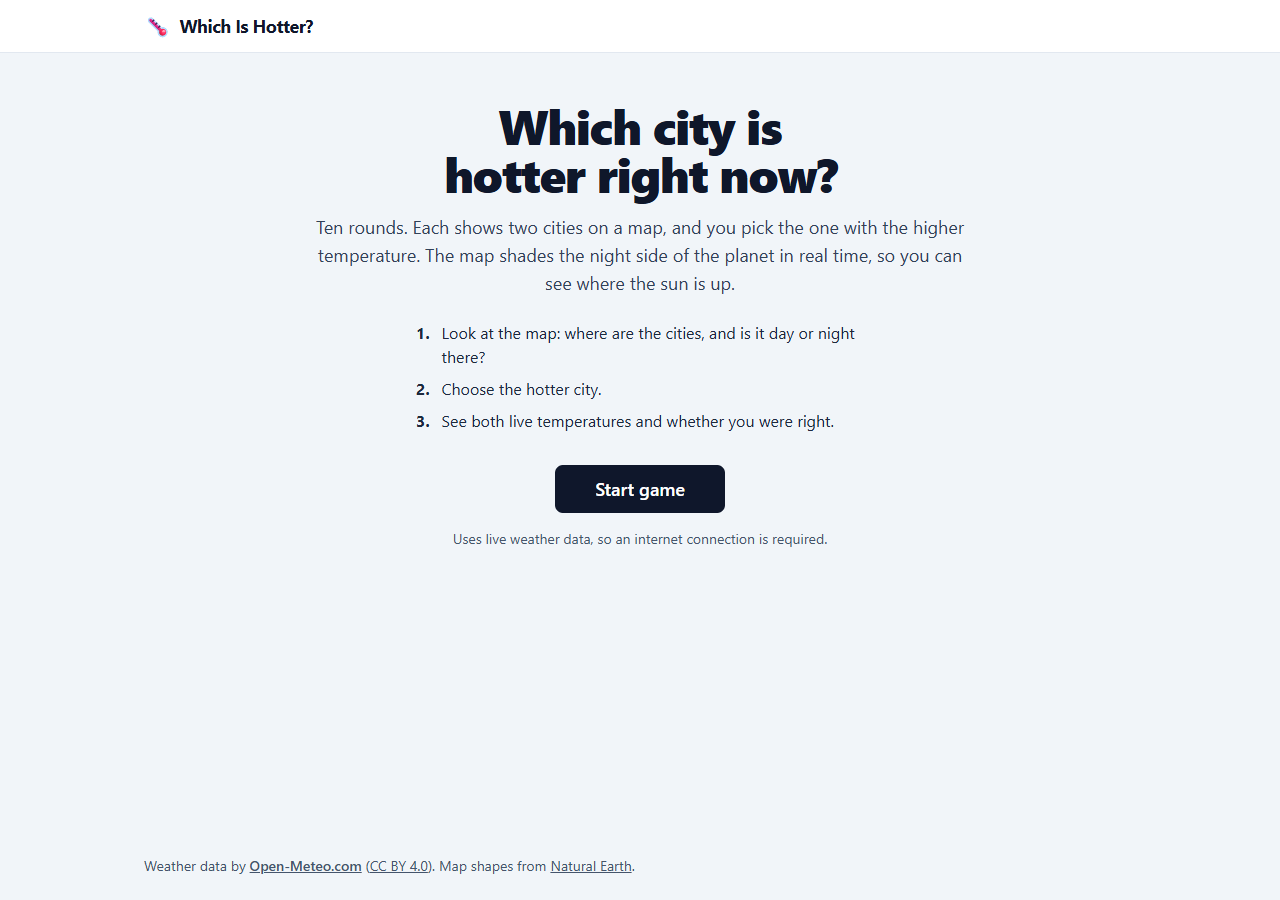
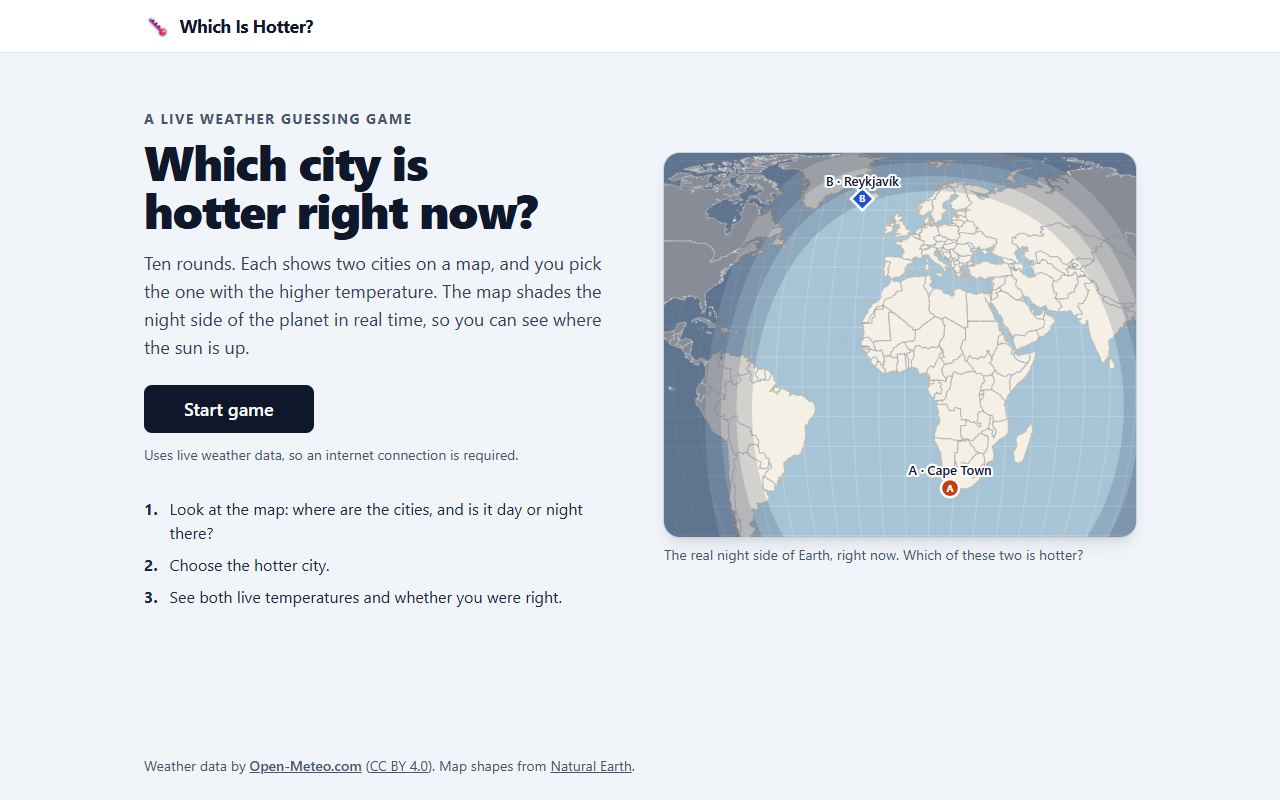
Add hero section with live night-side map to the home screen

diff --git a/src/views/HomeView.tsx b/src/views/HomeView.tsx
@@ -1,33 +1,43 @@
 import { Button } from '../components/Button'
+import { HeroMap } from './HeroMap'
+
+const STEPS = [
+  'Look at the map: where are the cities, and is it day or night there?',
+  'Choose the hotter city.',
+  'See both live temperatures and whether you were right.',
+]
 
 export function HomeView({ onStart }: { onStart: () => void }) {
   return (
-    <div className="mx-auto max-w-2xl py-6 text-center">
-      <h1 className="text-4xl font-extrabold tracking-tight text-balance sm:text-5xl">Which city is hotter right now?</h1>
-      <p className="mt-4 text-lg text-slate-700">
-        Ten rounds. Each shows two cities on a map, and you pick the one with the higher temperature. The map
-        shades the night side of the planet in real time, so you can see where the sun is up.
-      </p>
+    <div className="grid items-center gap-8 py-2 lg:grid-cols-2 lg:gap-12 lg:py-8">
+      <div>
+        <p className="text-sm font-bold tracking-widest text-slate-600 uppercase">A live weather guessing game</p>
+        <h1 className="mt-2 text-4xl font-extrabold tracking-tight text-balance sm:text-5xl">
+          Which city is hotter right now?
+        </h1>
+        <p className="mt-4 text-lg text-slate-700">
+          Ten rounds. Each shows two cities on a map, and you pick the one with the higher temperature. The map shades
+          the night side of the planet in real time, so you can see where the sun is up.
+        </p>
 
-      <ol className="mx-auto mt-6 max-w-md space-y-2 text-left text-slate-800">
-        <li className="flex gap-3">
-          <span aria-hidden="true" className="font-bold">1.</span>
-          Look at the map: where are the cities, and is it day or night there?
-        </li>
-        <li className="flex gap-3">
-          <span aria-hidden="true" className="font-bold">2.</span>
-          Choose the hotter city.
-        </li>
-        <li className="flex gap-3">
-          <span aria-hidden="true" className="font-bold">3.</span>
-          See both live temperatures and whether you were right.
-        </li>
-      </ol>
+        <Button onClick={onStart} className="mt-6 w-full px-10 text-lg sm:w-auto">
+          Start game
+        </Button>
+        <p className="mt-3 text-sm text-slate-600">Uses live weather data, so an internet connection is required.</p>
 
-      <Button onClick={onStart} className="mt-8 px-10 text-lg">
-        Start game
-      </Button>
-      <p className="mt-4 text-sm text-slate-600">Uses live weather data, so an internet connection is required.</p>
+        <ol className="mt-8 space-y-2 text-slate-800">
+          {STEPS.map((step, i) => (
+            <li key={step} className="flex gap-3">
+              <span aria-hidden="true" className="font-bold">
+                {i + 1}.
+              </span>
+              {step}
+            </li>
+          ))}
+        </ol>
+      </div>
+
+      <HeroMap />
     </div>
   )
 }

diff --git a/src/views/HeroMap.tsx b/src/views/HeroMap.tsx
@@ -1,0 +1,49 @@
+import { Suspense, useState } from 'react'
+import { CITIES } from '../data/cities'
+import { isDaylight, subsolarPoint } from '../geo/sun'
+import { LazyWorldMap } from '../map/lazyWorldMap'
+import type { CityWeather } from '../types'
+
+// Hand-picked pairs that make an interesting preview: a mix of zoom levels,
+// and cities far enough apart that the day/night line usually falls between them.
+const PREVIEW_PAIRS: [string, string][] = [
+  ['london', 'sydney'],
+  ['tokyo', 'los-angeles'],
+  ['cape-town', 'reykjavik'],
+  ['dubai', 'sao-paulo'],
+  ['mumbai', 'chicago'],
+  ['dublin', 'rome'],
+]
+
+/**
+ * The hero's picture: the real game map, showing the actual night side of the
+ * planet right now. It uses no weather request, so it costs no API quota and
+ * appears instantly. Temperatures are never shown (revealed is false), so the
+ * placeholder value below is never displayed.
+ */
+export function HeroMap() {
+  // Chosen once per visit; the lazy initialiser keeps it stable across renders.
+  const [{ a, b, at }] = useState(() => {
+    const at = new Date()
+    const sun = subsolarPoint(at)
+    const [idA, idB] = PREVIEW_PAIRS[Math.floor(Math.random() * PREVIEW_PAIRS.length)]
+    const make = (id: string): CityWeather => {
+      const city = CITIES.find((c) => c.id === id)!
+      return { city, temperatureC: 0, isDay: isDaylight(city, sun), observedAt: at.toISOString() }
+    }
+    return { a: make(idA), b: make(idB), at }
+  })
+
+  return (
+    <figure>
+      <div className="h-64 overflow-hidden rounded-2xl shadow-lg ring-1 ring-slate-300 sm:h-80 lg:h-96">
+        <Suspense fallback={<div className="h-full w-full animate-pulse bg-slate-200 motion-reduce:animate-none" aria-hidden="true" />}>
+          <LazyWorldMap a={a} b={b} at={at} revealed={false} />
+        </Suspense>
+      </div>
+      <figcaption className="mt-2 text-sm text-slate-600">
+        The real night side of Earth, right now. Which of these two is hotter?
+      </figcaption>
+    </figure>
+  )
+}
